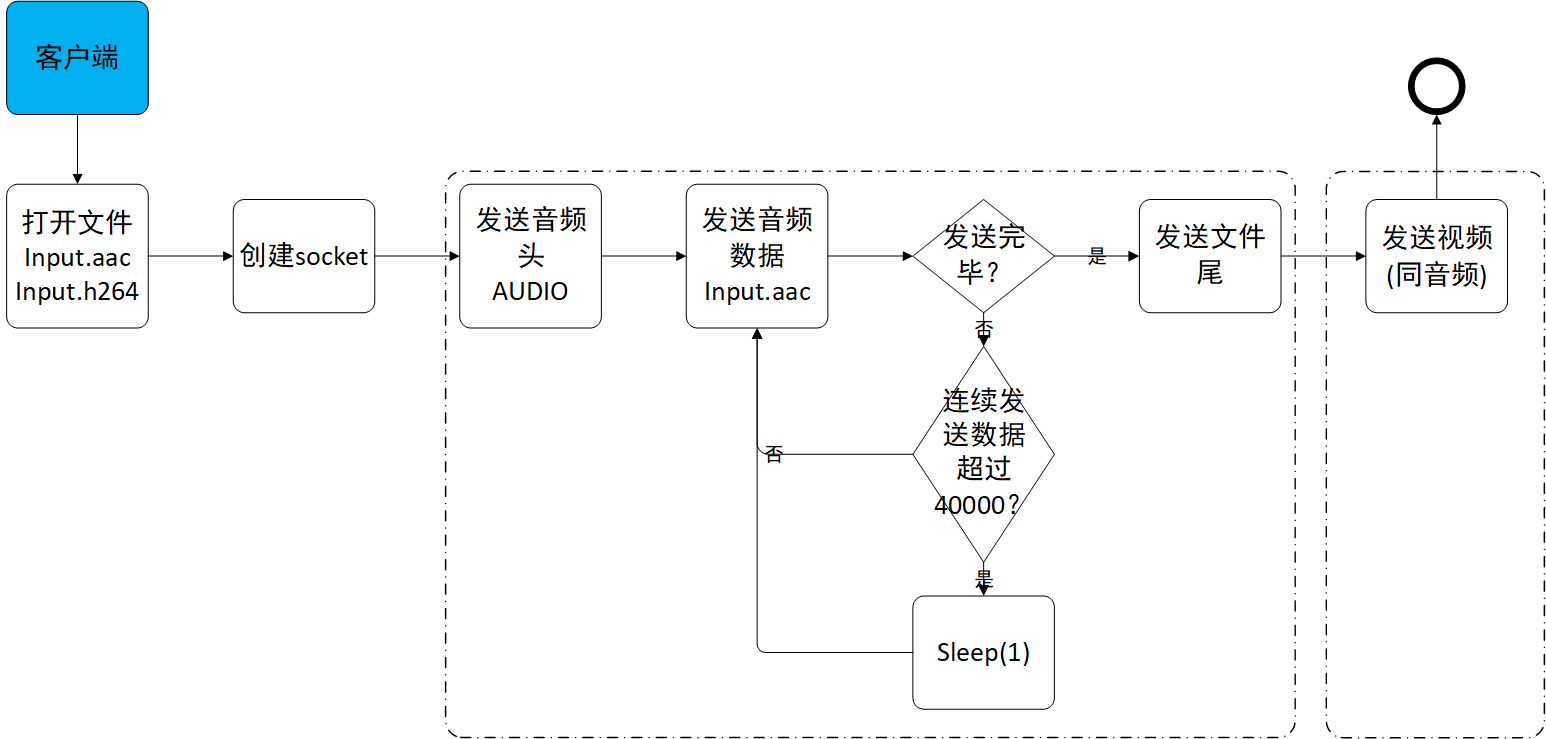
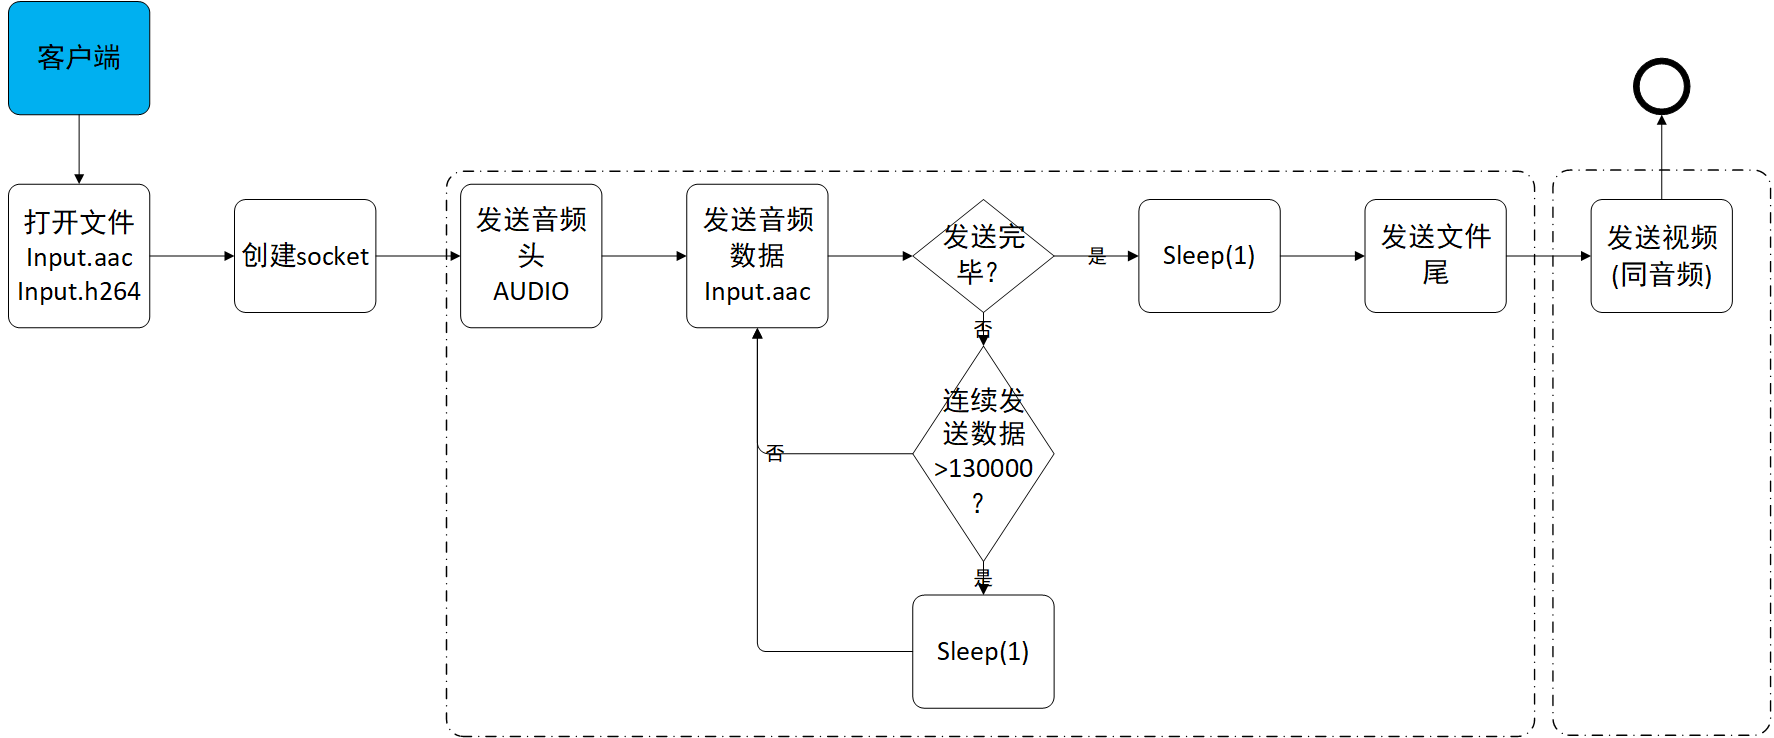
Modify client-server

diff --git a/README.md b/README.md
@@ -27,6 +27,14 @@
 ### client
 可以将本地的音频文件（input.aac）和视频文件（input.h264）通过UDP协议发送给服务端。考虑到IP分片和服务端接收速度等因素，我们一个UDP发送1024Bytes，发送40000Bytes字节后会sleep1秒，保证服务端顺利接收文件。
 
+更新： 由于本次实验客户端-服务端 是在同一主机上模拟，所以不考虑丢包的情况。为了尽可能减少频繁IO带来的切换开销，我们把一次UDP发送的数据设置为最大65507（Centos下），MAX_SIZE_ONE_TIME_SEND设置为130000。 优化前后对比如下：
+
+|| 传输音频文件大小 |传输音频文件用时|传输视频文件大小|传输视频文件用时|音频传输速率|视频传输速率|
+|--|--|--|--|--|--|--|
+|更新前| 1853466Bytes |44.72s|4563480Bytes|110.95s|40.47KB/s|40.17KB/s|
+|更新后| 1853466Bytes |14.15s|4563480Bytes|34.37s|127.92KB/s|129.66KB/s|
+
+
 ### server
 从客户端接收音视频文件并保存到本地（output.aac/ output.h264），考虑到写文件IO的耗时性，未来将尝试一次多写的方式来优化服务端接收文件的耗时。
 
